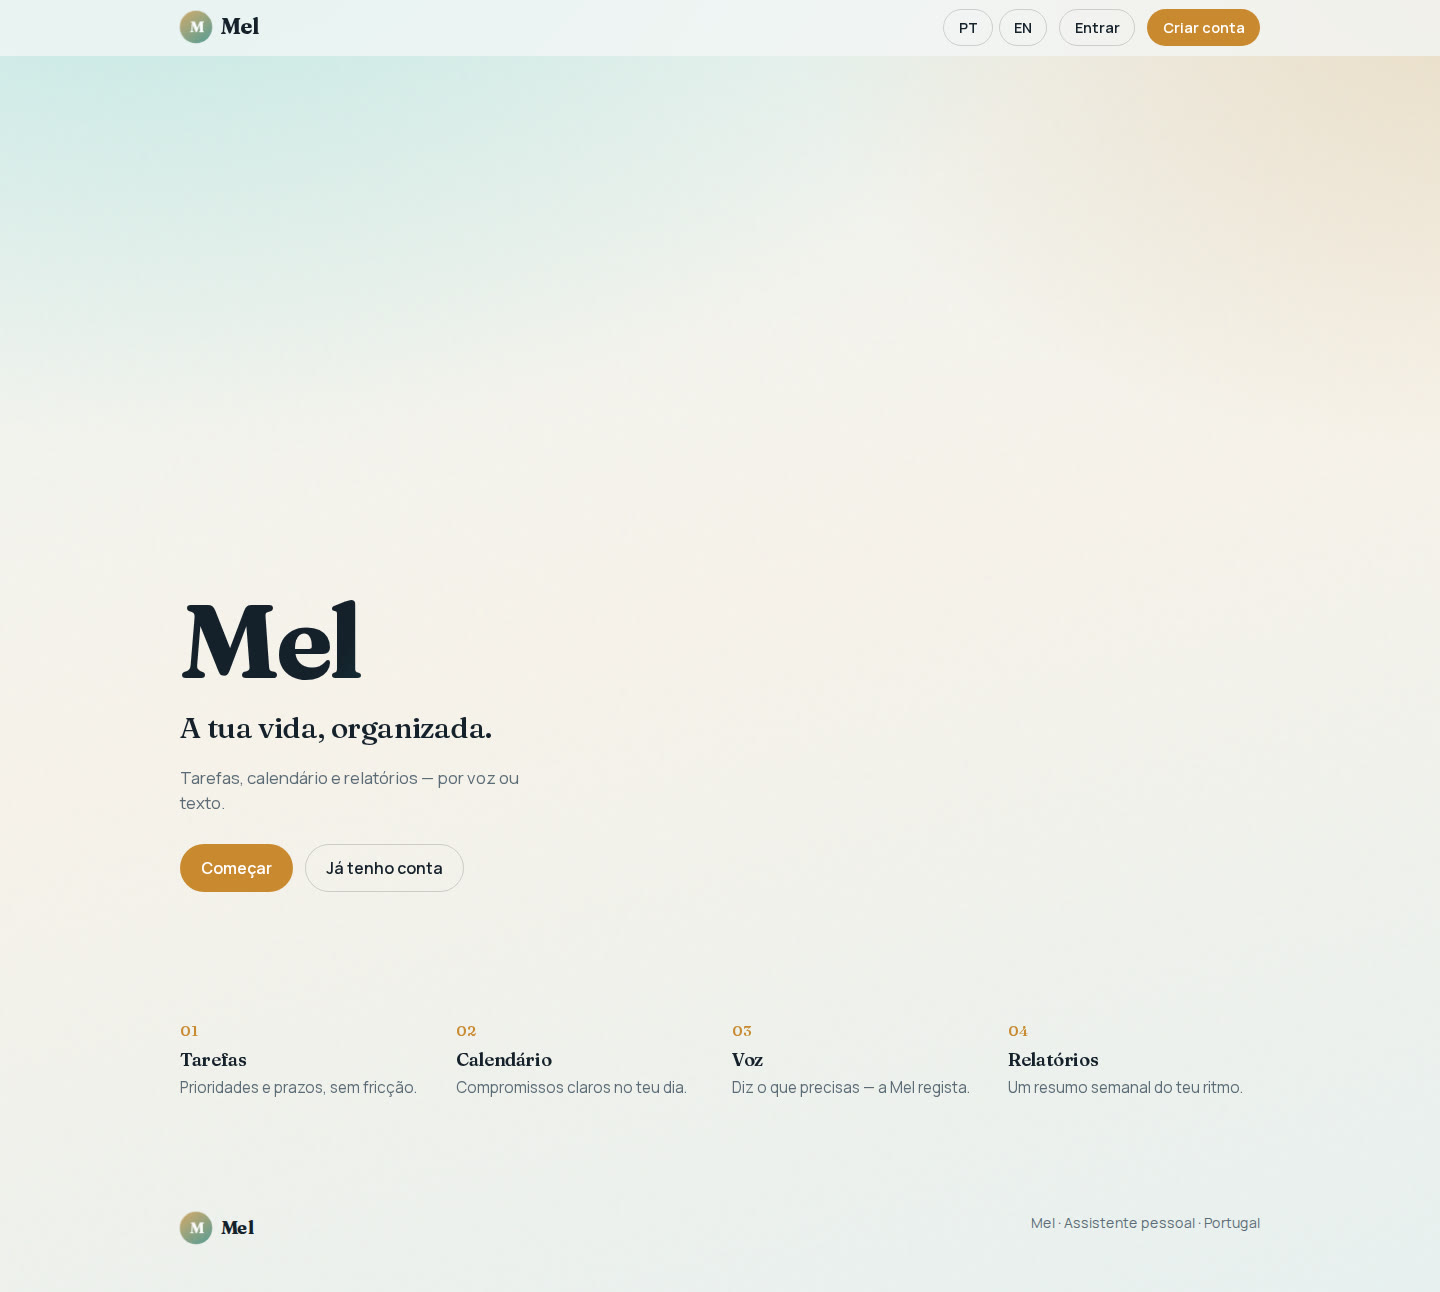
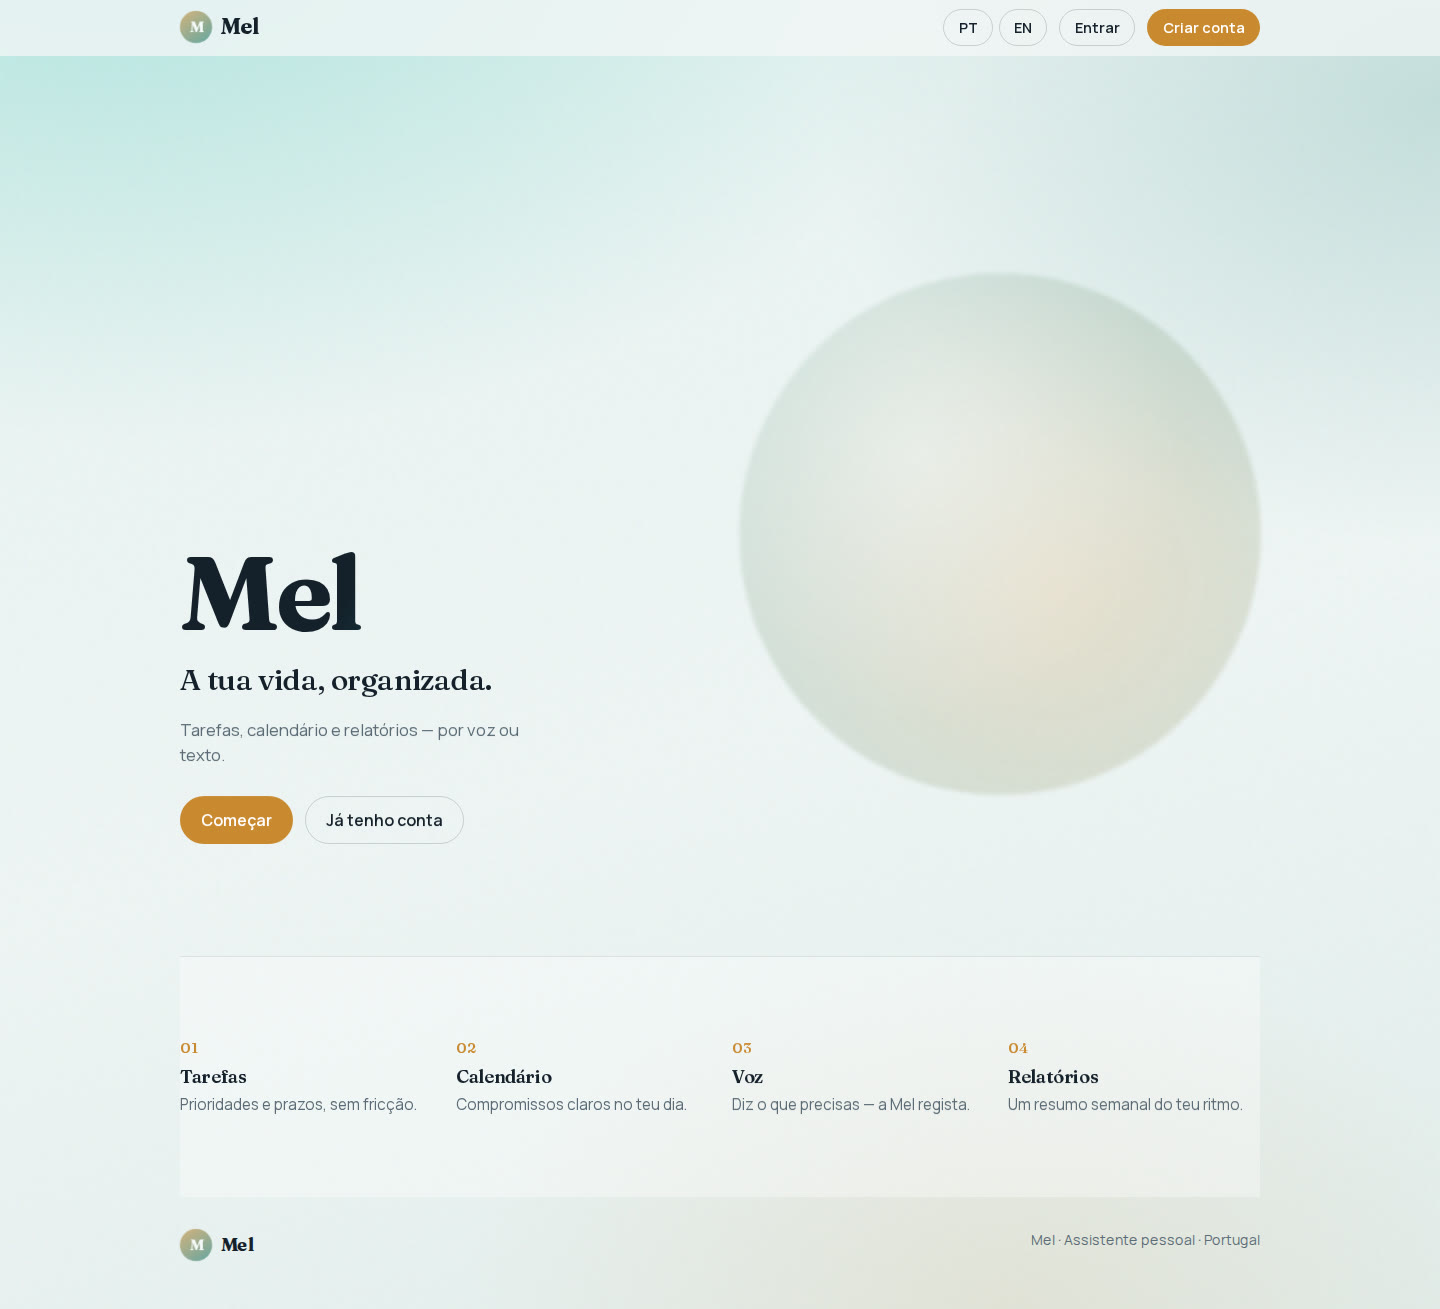
style(mel): hero full-bleed e atmosfera teal/mist
Refina o primeiro viewport da landing (brand + headline + CTA) e reduz o tom cream.

diff --git a/src/app/globals.css b/src/app/globals.css
@@ -2,15 +2,15 @@
 
 /* ——— Mel design tokens ——— */
 :root {
-  --bg: #f4f7f6;
+  --bg: #eef5f4;
   --bg-elevated: #ffffff;
-  --bg-soft: #e8f1f0;
+  --bg-soft: #e2eeec;
   --bg-ink: #14212b;
   --bg-ink-soft: #1c2c38;
 
   --fg: #14212b;
   --fg-muted: #5a6b75;
-  --fg-on-ink: #f7f3ea;
+  --fg-on-ink: #f4faf9;
 
   --brand: #14212b;
   --brand-strong: #0b141a;
@@ -20,8 +20,8 @@
   --teal: #0f766e;
   --teal-soft: #14b8a6;
   --honey: #c9892e;
-  --mist: #e8f1f0;
-  --dawn: #f7f3ea;
+  --mist: #e2eeec;
+  --dawn: #eef5f4;
 
   --line: rgba(20, 33, 43, 0.1);
   --line-strong: rgba(20, 33, 43, 0.18);
@@ -112,9 +112,10 @@ select {
   isolation: isolate;
   overflow: hidden;
   background:
-    radial-gradient(120% 80% at 10% -10%, rgba(20, 184, 166, 0.22), transparent 55%),
-    radial-gradient(90% 70% at 100% 0%, rgba(201, 137, 46, 0.2), transparent 50%),
-    linear-gradient(165deg, #eef5f4 0%, #f7f3ea 48%, #e8f1f0 100%);
+    radial-gradient(120% 80% at 8% -8%, rgba(20, 184, 166, 0.28), transparent 52%),
+    radial-gradient(90% 70% at 100% 8%, rgba(15, 118, 110, 0.18), transparent 48%),
+    radial-gradient(70% 50% at 70% 100%, rgba(201, 137, 46, 0.12), transparent 55%),
+    linear-gradient(165deg, #e8f4f2 0%, #eef5f4 55%, #e2eeec 100%);
 }
 
 .mel-atmosphere::before {
@@ -361,14 +362,34 @@ select {
   min-height: 100dvh;
   display: grid;
   align-items: end;
-  padding: 6rem 0 4rem;
+  padding: 7rem 0 5rem;
+  position: relative;
+}
+
+.hero::after {
+  content: "";
+  position: absolute;
+  inset: auto 0 18% auto;
+  width: min(46vw, 520px);
+  height: min(46vw, 520px);
+  border-radius: 50%;
+  background:
+    radial-gradient(circle at 35% 35%, rgba(255, 255, 255, 0.55), transparent 55%),
+    radial-gradient(circle at 60% 60%, rgba(201, 137, 46, 0.35), rgba(15, 118, 110, 0.28));
+  filter: blur(2px);
+  animation: mel-glow 7s ease-in-out infinite;
+  pointer-events: none;
+  z-index: 0;
 }
 
 .hero-copy {
+  position: relative;
+  z-index: 1;
   max-width: 38rem;
   display: flex;
   flex-direction: column;
   gap: 1.25rem;
+  padding-bottom: 2rem;
 }
 
 .hero-brand {
@@ -405,8 +426,10 @@ select {
 .feature-strip {
   display: grid;
   gap: 1.5rem;
-  padding: 4rem 0 5rem;
+  padding: 5rem 0 5rem;
   grid-template-columns: 1fr;
+  border-top: 1px solid var(--line);
+  background: rgba(255, 255, 255, 0.35);
 }
 
 @media (min-width: 720px) {
